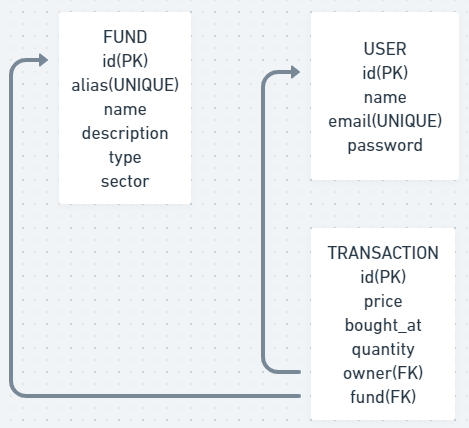
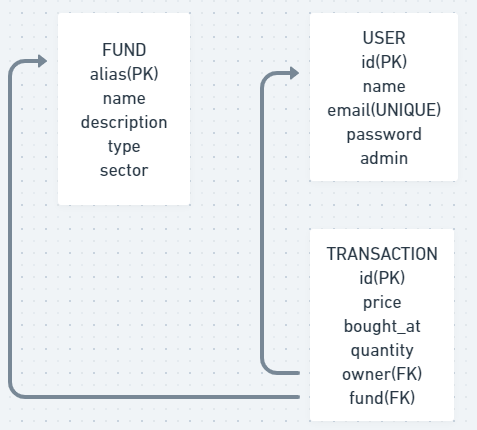
updated funds crud

diff --git a/src/__tests__/routes/fundsRoutes.test.ts b/src/__tests__/routes/fundsRoutes.test.ts
@@ -7,7 +7,6 @@ import app from "../../app";
 describe("/funds - FUNDS ROUTE TEST", () => {
   test("POST /funds -  Must be able to create a fund", async () => {
     expect(fund.status).toBe(201);
-    expect(fund.body).toHaveProperty("id");
     expect(fund.body).toHaveProperty("alias");
     expect(fund.body).toHaveProperty("name");
     expect(fund.body).toHaveProperty("description");
@@ -32,69 +31,92 @@ describe("/funds - FUNDS ROUTE TEST", () => {
     expect(response.status).toBe(200);
   });
 
-  test("GET /funds/:id -  should not be able to retrieve fund without authentication", async () => {
-    const fundTobeRetrievedId = fund.body.id;
-    const response = await request(app).get(`/funds/${fundTobeRetrievedId}`);
+  test("GET /funds/:alias -  should not be able to retrieve fund without authentication", async () => {
+    const fundTobeRetrievedAlias = fund.body.alias;
+    const response = await request(app).get(`/funds/${fundTobeRetrievedAlias}`);
     expect(response.body).toHaveProperty("message");
     expect(response.status).toBe(401);
   });
 
-  test("GET /funds/:id -  should not be able to retrieve fund with invalid id", async () => {
+  test("GET /funds/:alias -  should not be able to retrieve fund with invalid id", async () => {
     const response = await request(app)
-      .get(`/funds/13970660-5dbe-423a-9a9d-5c23b37943cf`)
+      .get(`/funds/XXXX11`)
       .set("Authorization", `Bearer ${adminLogin.body.token}`);
     expect(response.body).toHaveProperty("message");
     expect(response.status).toBe(404);
   });
 
-  test("GET /funds/:id -  should  be able to retrieve fund", async () => {
-    const fundTobeRetrievedId = fund.body.id;
+  test("GET /funds/:alias -  should  be able to retrieve fund", async () => {
+    const fundTobeRetrievedAlias = fund.body.alias;
     const response = await request(app)
-      .get(`/funds/${fundTobeRetrievedId}`)
+      .get(`/funds/${fundTobeRetrievedAlias}`)
       .set("Authorization", `Bearer ${adminLogin.body.token}`);
     expect(response.body).toHaveProperty("alias");
     expect(response.status).toBe(200);
   });
 
-  test("PATCH /funds/:id -  should not be able to update fund without authentication", async () => {
-    const response = await request(app).patch(`/funds/${fund.body.id}`);
+  test("PATCH /funds/:alias -  should not be able to update fund without authentication", async () => {
+    const response = await request(app).patch(`/funds/${fund.body.alias}`);
     expect(response.body).toHaveProperty("message");
     expect(response.status).toBe(401);
   });
 
-  test("PATCH /funds/:id - should not be able to update fund with invalid id", async () => {
+  test("PATCH /funds/:alias - should not be able to update fund with invalid id", async () => {
     const newValues = { alias: "HGLG13" };
     const token = `Bearer ${adminLogin.body.token}`;
     const response = await request(app)
-      .patch(`/funds/13970660-5dbe-423a-9a9d-5c23b37943cf`)
+      .patch(`/funds/XXXX11`)
       .set("Authorization", token)
       .send(newValues);
     expect(response.body).toHaveProperty("message");
     expect(response.status).toBe(404);
   });
 
-  test("PATCH /funds/:id - should not be able to update fund if not admin", async () => {
+  test("PATCH /funds/:alias - should not be able to update fund if not admin", async () => {
     const newValues = { alias: "HGLG13" };
     const token = `Bearer ${userLogin.body.token}`;
-    const fundTobeUpdateId = fund.body.id;
+    const fundTobeUpdateAlias = fund.body.alias;
     const response = await request(app)
-      .patch(`/funds/${fundTobeUpdateId}`)
+      .patch(`/funds/${fundTobeUpdateAlias}`)
       .set("Authorization", token)
       .send(newValues);
     expect(response.status).toBe(403);
     expect(response.body).toHaveProperty("message");
   });
 
-  test("PATCH /funds/:id -  should be able to update fund", async () => {
-    const newValues = { alias: "HGLG13" };
+  test("PATCH /funds/:alias -  should be able to update fund", async () => {
+    const newValues = { name: "Test Fund Update" };
     const token = `Bearer ${adminLogin.body.token}`;
-    const fundTobeUpdateId = fund.body.id;
+    const fundTobeUpdateAlias = fund.body.alias;
     const response = await request(app)
-      .patch(`/funds/${fundTobeUpdateId}`)
+      .patch(`/funds/${fundTobeUpdateAlias}`)
       .set("Authorization", token)
       .send(newValues);
     expect(response.status).toBe(200);
-    expect(response.body.alias).toEqual("HGLG13");
+    expect(response.body.name).toEqual("Test Fund Update");
+  });
+
+  test("DELETE /funds/:alias - should not be able to delete fund if not admin", async () => {
+    const response = await request(app)
+      .delete(`/users/${fund.body.alias}`)
+      .set("Authorization", `Bearer ${userLogin.body.token}`);
+    expect(response.body).toHaveProperty("message");
+    expect(response.status).toBe(403);
+  });
+
+  test("DELETE /funds/:alias -  should not be able to delete fund with invalid id", async () => {
+    const response = await request(app)
+      .delete(`/funds/XXXX11`)
+      .set("Authorization", `Bearer ${adminLogin.body.token}`);
+    expect(response.status).toBe(404);
+    expect(response.body).toHaveProperty("message");
+  });
+
+  test("DELETE /funds/:alias -  Must be able to delete fund", async () => {
+    const response = await request(app)
+      .delete(`/funds/${fund.body.alias}`)
+      .set("Authorization", `Bearer ${adminLogin.body.token}`);
+    expect(response.status).toBe(204);
   });
 });
 

diff --git a/src/services/funds.services.ts b/src/services/funds.services.ts
@@ -1,19 +1,18 @@
 import database from "../data-source";
 import { AppError } from "../errors/appError";
-import { IFundPatchRequest, IFundRequest, IFundResponse } from "../interfaces";
+import { IFundPatchRequest, IFundRequest } from "../interfaces";
 import { v4 as uuid } from "uuid";
 
 export function createFundService(
   fund: IFundRequest,
   callback: (err: Error | null, row?: unknown) => void
 ) {
-  const keys = ["id", ...Object.keys(fund)];
+  const keys = [...Object.keys(fund)];
   const values = Object.values(fund);
   const mark = Array(keys.length).fill("?");
-  const id = uuid();
   const sql = `INSERT INTO funds (${keys.join(", ")}) VALUES (${mark.join(", ")}) RETURNING *`;
-  const params = [id, ...values];
-  database.get(sql, params, (err, row: IFundResponse) => {
+  const params = [...values];
+  database.get(sql, params, (err, row: IFundRequest) => {
     if (err) return callback(new AppError(err.message, 400));
     callback(null, row);
   });
@@ -22,44 +21,56 @@ export function createFundService(
 export function getFundsService(
   offset = 0,
   limit = 10,
-  callback: (err: Error | null, rows?: IFundResponse[]) => void
+  callback: (err: Error | null, rows?: IFundRequest[]) => void
 ) {
   const sql = `SELECT * FROM funds ORDER BY alias LIMIT ${limit} OFFSET ${offset}`;
-  database.all(sql, function (err, rows: IFundResponse[]) {
+  database.all(sql, function (err, rows: IFundRequest[]) {
     if (err) return callback(new AppError(err.message, 400));
     callback(null, rows);
   });
 }
 
 export function retrieveFundService(
-  id: string,
-  callback: (err: Error | null, row?: IFundResponse) => void
+  alias: string,
+  callback: (err: Error | null, row?: IFundRequest) => void
 ) {
-  const sql = "SELECT * FROM funds WHERE id = ?";
-  const params = [id];
-  database.get(sql, params, (err, row: IFundResponse) => {
+  const sql = "SELECT * FROM funds WHERE alias = ?";
+  const params = [alias];
+  database.get(sql, params, (err, row: IFundRequest) => {
     if (err) return callback(new AppError(err.message, 400));
     callback(null, row);
   });
 }
 
 export function updateFundService(
-  id: string,
+  alias: string,
   user: IFundPatchRequest,
   callback: (err: Error | null, row?: IFundPatchRequest) => void
 ) {
   const isEmpty = Object.keys(user).length === 0;
   if (isEmpty) return callback(new AppError("Missing fields", 400));
 
-  if (!id) return callback(new AppError("Missing id", 400));
+  if (!alias) return callback(new AppError("Missing alias", 400));
 
   const keys = Object.keys(user);
   const values = Object.values(user);
   const query = keys.map((el) => `${el} = ?`);
-  const sql = `UPDATE funds SET ${query.join(",")} WHERE id = ? RETURNING *`;
-  const params = [...values, id];
-  database.get(sql, params, (err, row: IFundResponse) => {
+  const sql = `UPDATE funds SET ${query.join(",")} WHERE alias = ? RETURNING *`;
+  const params = [...values, alias];
+  database.get(sql, params, (err, row: IFundRequest) => {
     if (err) return callback(new AppError(err.message, 400));
     callback(null, row);
+  });
+}
+
+export function deleteFundService(
+  alias: string,
+  callback: (err: Error | null, row?: unknown) => void
+) {
+  const sql = "DELETE FROM funds WHERE alias = ?";
+  const params = [alias];
+  database.run(sql, params, function (err) {
+    if (err) return callback(new AppError(err.message, 400));
+    callback(null, { deleted: !!this.changes });
   });
 }

diff --git a/src/__tests__/routes/userRoutes.test.ts b/src/__tests__/routes/userRoutes.test.ts
@@ -133,6 +133,14 @@ describe("/users - USERS ROUTE TESTS", () => {
     expect(response.body).not.toHaveProperty("password");
   });
 
+  test("DELETE /users/:id -  should not be able to remove user not being admin or owner", async () => {
+    const response = await request(app)
+      .delete(`/users/${user.body.id}`)
+      .set("Authorization", `Bearer ${userLogin.body.token}`);
+    expect(response.body).toHaveProperty("message");
+    expect(response.status).toBe(403);
+  });
+
   test("DELETE /users/:id -  should not be able to delete user with invalid id", async () => {
     await request(app).post("/users").send(mockedUser);
     const response = await request(app)
@@ -145,9 +153,6 @@ describe("/users - USERS ROUTE TESTS", () => {
   test("DELETE /users/:id -  Must be able to delete user", async () => {
     const response = await request(app)
       .delete(`/users/${user.body.id}`)
-      .set("Authorization", `Bearer ${adminLogin.body.token}`);
-    const findUser = await request(app)
-      .get("/users")
       .set("Authorization", `Bearer ${adminLogin.body.token}`);
     expect(response.status).toBe(204);
   });

diff --git a/src/controllers/funds.controllers.ts b/src/controllers/funds.controllers.ts
@@ -1,6 +1,7 @@
 import { NextFunction, Request, Response } from "express";
 import {
   createFundService,
+  deleteFundService,
   getFundsService,
   retrieveFundService,
   updateFundService,
@@ -23,15 +24,22 @@ export const getFundsController = (req: Request, res: Response) => {
 };
 
 export const retrieveFundController = (req: Request, res: Response, next: NextFunction) => {
-  retrieveFundService(req.params.id, (err, row) => {
+  retrieveFundService(req.params.alias, (err, row) => {
     if (err) return next(err);
     res.status(200).json(row);
   });
 };
 
 export const updateFundController = (req: Request, res: Response, next: NextFunction) => {
-  updateFundService(req.params.id, req.body, (err, row) => {
+  updateFundService(req.params.alias, req.body, (err, row) => {
     if (err) return next(err);
     res.status(200).json(row);
+  });
+};
+
+export const deleteFundController = (req: Request, res: Response, next: NextFunction) => {
+  deleteFundService(req.params.alias, (err, row) => {
+    if (err) return next(err);
+    res.status(204).json(row);
   });
 };

diff --git a/src/data-source.ts b/src/data-source.ts
@@ -14,13 +14,12 @@ export const SQL_CREATE_TABLES = `
 	PRIMARY KEY("id")
 );
     CREATE TABLE IF NOT EXISTS "funds" (
-	"id"	VARCHAR NOT NULL,
 	"alias"	VARCHAR(10) NOT NULL UNIQUE,
 	"name"	VARCHAR(50) NOT NULL,
 	"description"	VARCHAR(200),
 	"type"	VARCHAR(10) NOT NULL,
 	"sector"	VARCHAR(50),
-	PRIMARY KEY("id")
+	PRIMARY KEY("alias")
 );
     CREATE TABLE IF NOT EXISTS "transactions" (
 	"id"	VARCHAR NOT NULL,
@@ -28,9 +27,9 @@ export const SQL_CREATE_TABLES = `
 	"bought_at"	DATE NOT NULL DEFAULT (CURRENT_TIMESTAMP),
 	"quantity"	DECIMAL(10, 0) NOT NULL,
 	"userId"	VARCHAR,
-	"fundId"	VARCHAR,
+	"fundAlias"	VARCHAR,
 	PRIMARY KEY("id"),
-	FOREIGN KEY("fundId") REFERENCES "funds"("id") ON DELETE CASCADE ON UPDATE CASCADE,
+	FOREIGN KEY("fundAlias") REFERENCES "funds"("alias") ON DELETE CASCADE ON UPDATE CASCADE,
 	FOREIGN KEY("userId") REFERENCES "users"("id") ON DELETE CASCADE ON UPDATE CASCADE
 );
 `;

diff --git a/src/routes/funds.routes.ts b/src/routes/funds.routes.ts
@@ -1,6 +1,7 @@
 import { Router } from "express";
 import {
   createFundController,
+  deleteFundController,
   getFundsController,
   retrieveFundController,
   updateFundController,
@@ -21,14 +22,21 @@ fundRoutes.post(
   createFundController
 );
 fundRoutes.get("", authUserMiddleware, getFundsController);
-fundRoutes.get("/:id", authUserMiddleware, fundNotFoundMiddleware, retrieveFundController);
+fundRoutes.get("/:alias", authUserMiddleware, fundNotFoundMiddleware, retrieveFundController);
 fundRoutes.patch(
-  "/:id",
+  "/:alias",
   authUserMiddleware,
   isAdminMiddleware,
   dataValidateMiddleware(updateFundSchema),
   fundNotFoundMiddleware,
   updateFundController
+);
+fundRoutes.delete(
+  "/:alias",
+  authUserMiddleware,
+  isAdminMiddleware,
+  fundNotFoundMiddleware,
+  deleteFundController
 );
 
 export default fundRoutes;

diff --git a/src/middlewares/funds.middlewares.ts b/src/middlewares/funds.middlewares.ts
@@ -12,8 +12,8 @@ export function fundExistsMiddleware(req: Request, res: Response, next: NextFunc
 }
 
 export function fundNotFoundMiddleware(req: Request, res: Response, next: NextFunction) {
-  const sql = "SELECT COUNT (*) AS count FROM funds WHERE id = ?";
-  const params = req.params.id;
+  const sql = "SELECT COUNT (*) AS count FROM funds WHERE alias = ?";
+  const params = req.params.alias;
   database.get(sql, params, (err, row: { count: number }) => {
     if (err) return res.status(400).json(err);
     else if (!row.count) res.status(404).json({ message: "Fund not found" });

diff --git a/src/interfaces/index.ts b/src/interfaces/index.ts
@@ -38,10 +38,6 @@ export interface IFundRequest {
   sector?: string;
 }
 
-export interface IFundResponse extends IFundRequest {
-  id: string;
-}
-
 export interface IFundPatchRequest {
   alias?: string;
   name?: string;
